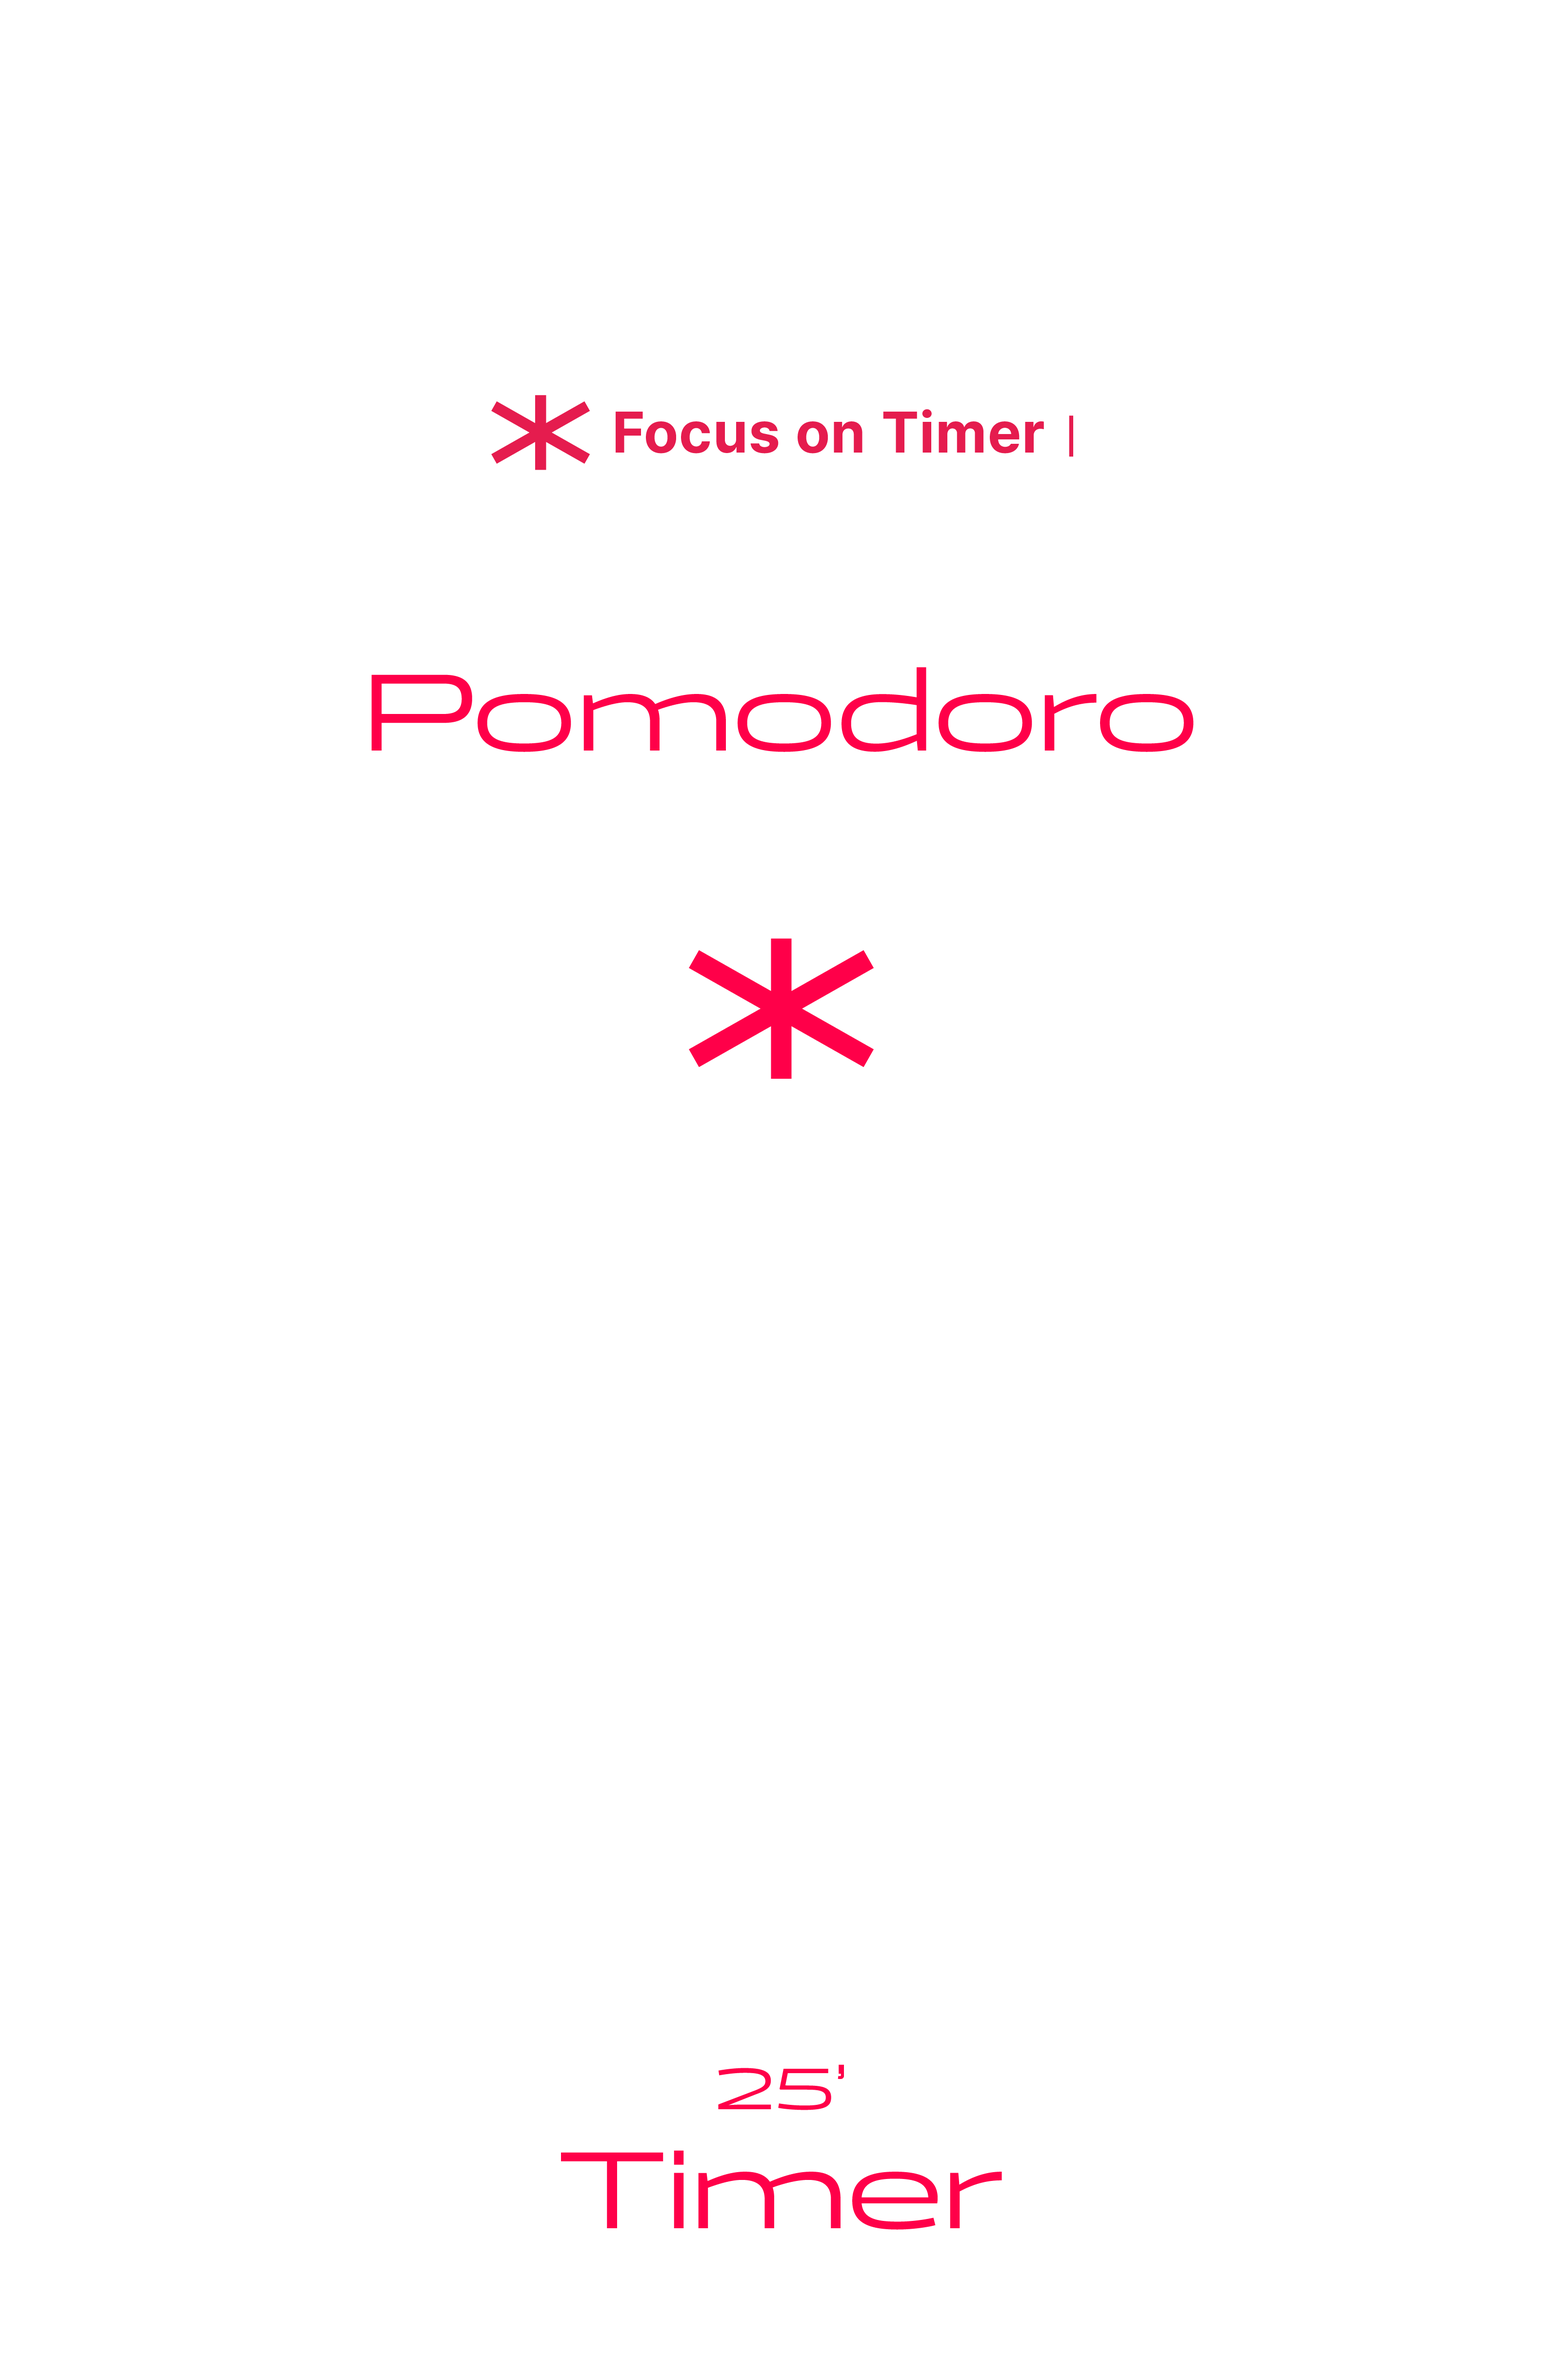
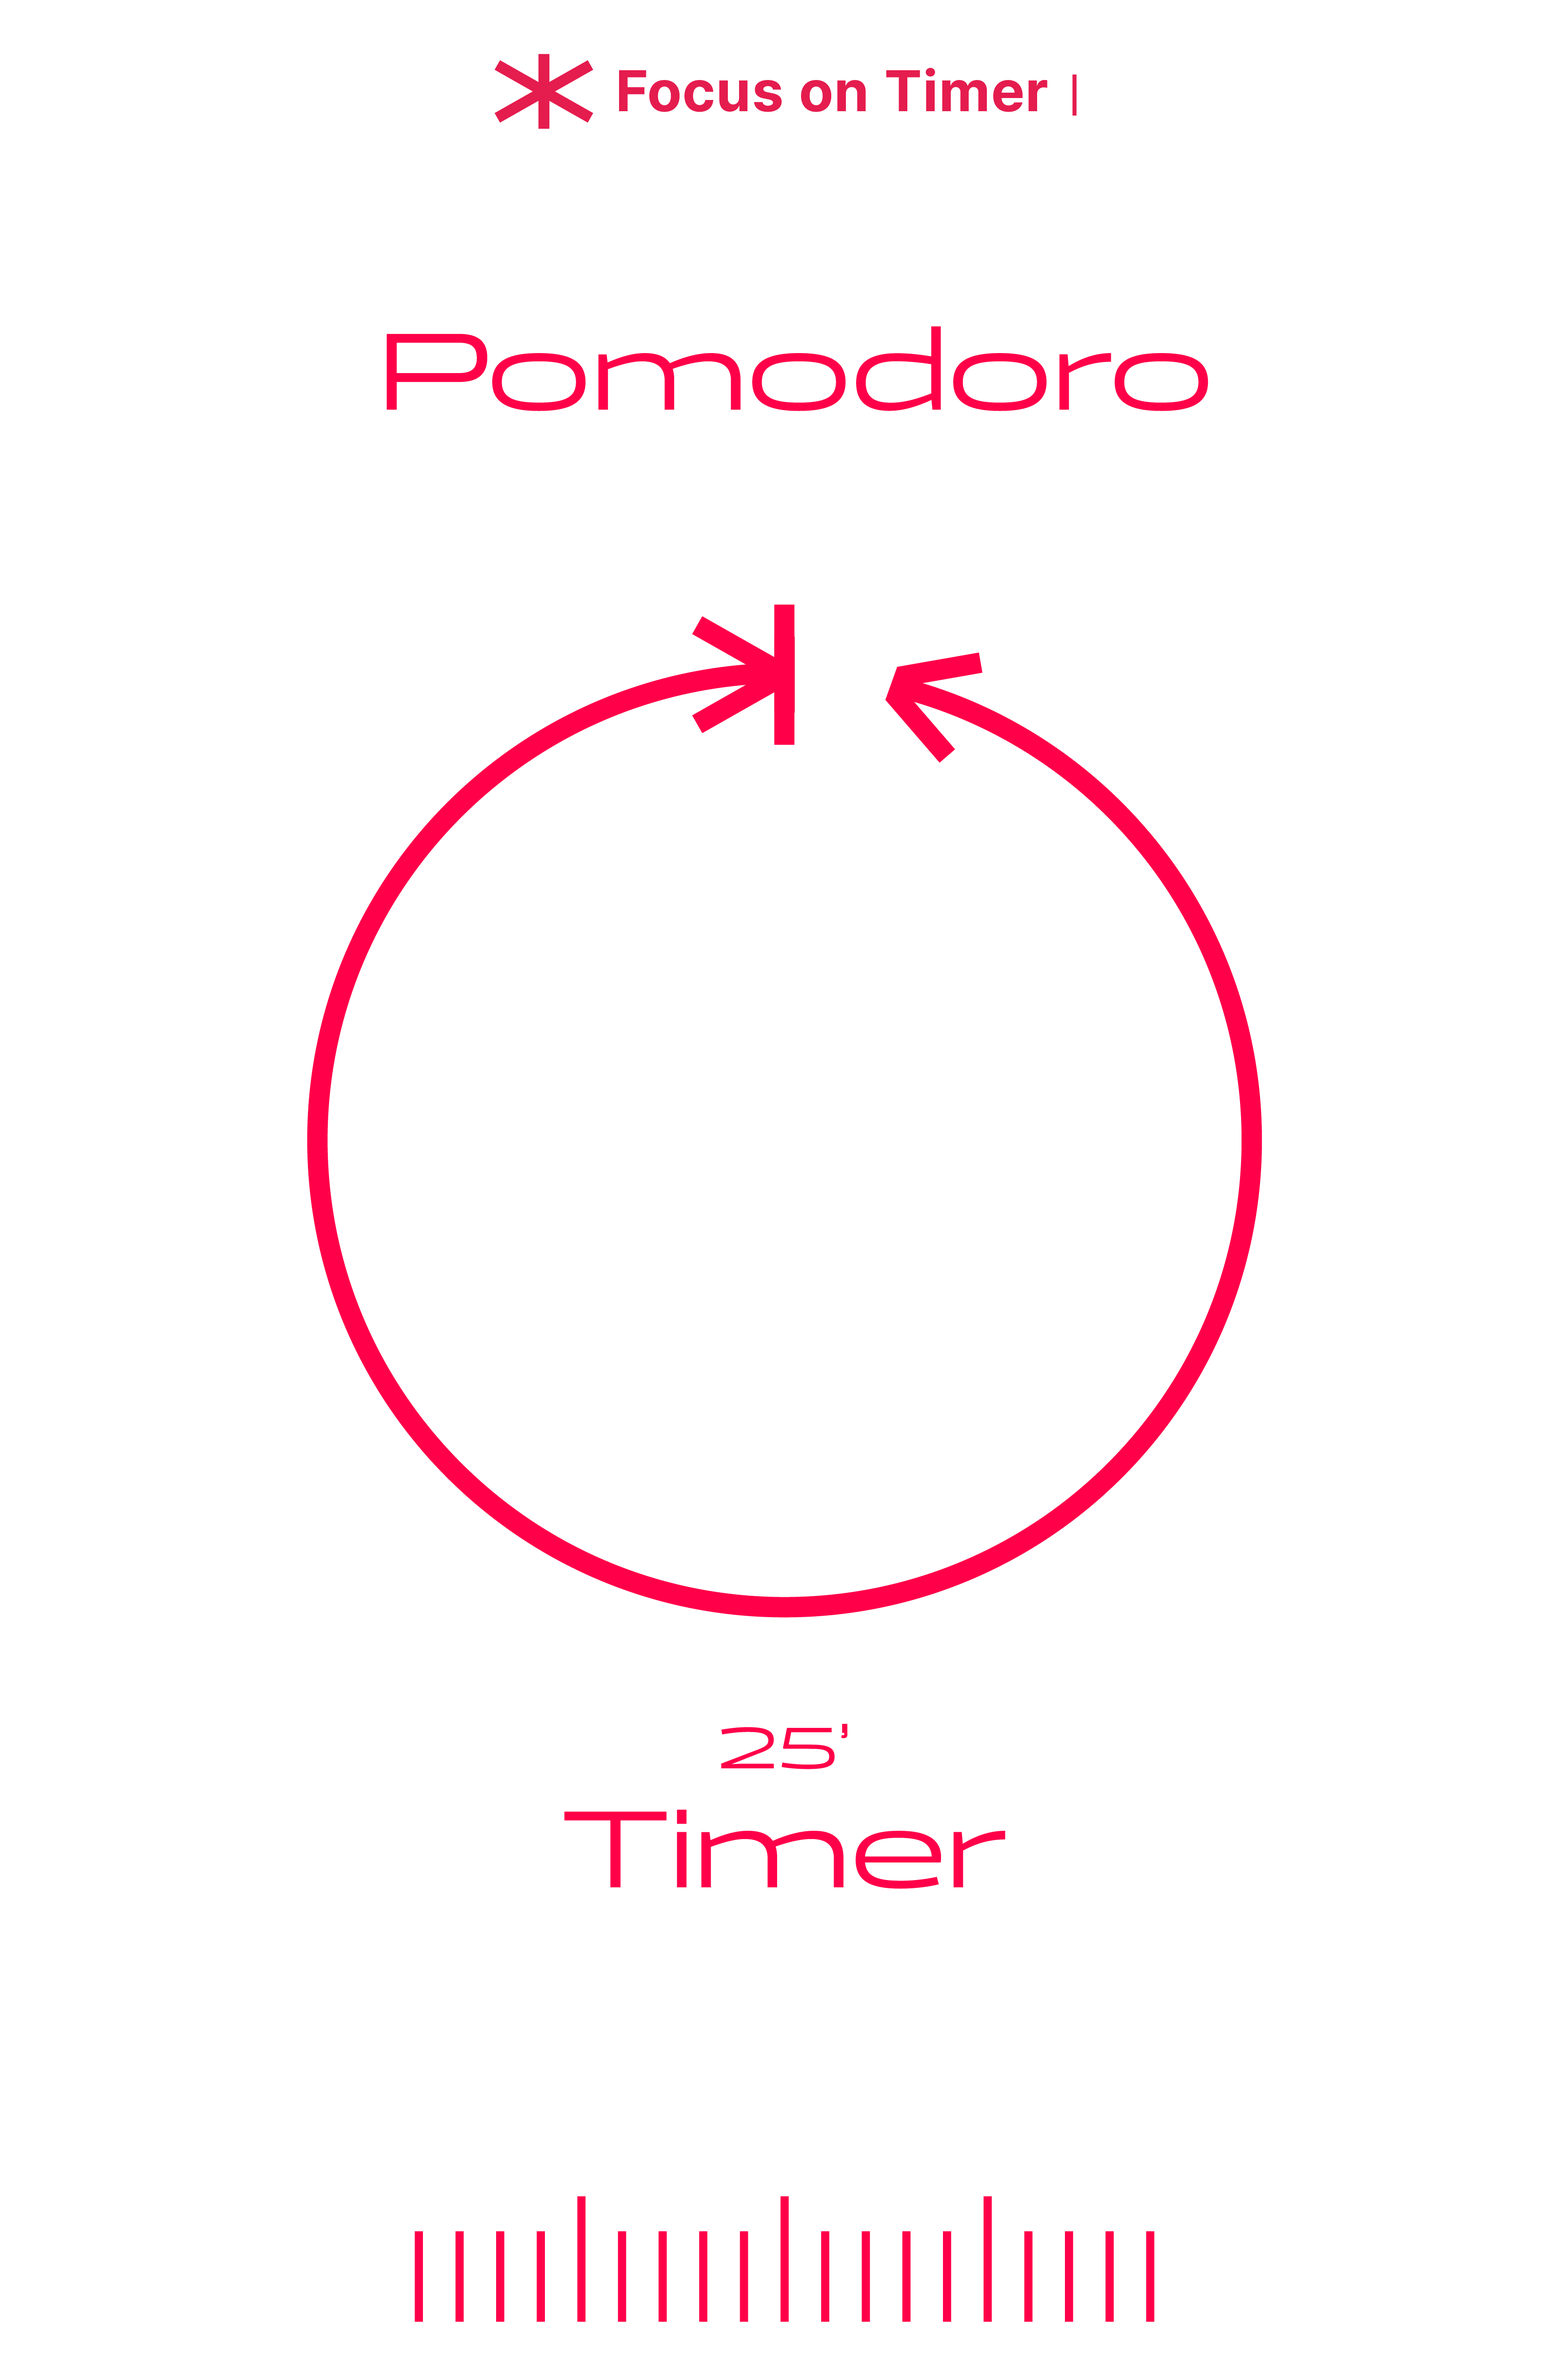
수정

diff --git a/css/main.css b/css/main.css
@@ -1,23 +1,16 @@
-@import url("https://fonts.googleapis.com/css2?family=Lexend+Deca:wght@100..900&display=swap");
 @font-face {
-  font-family: 'Panchang-Regular';
-  src: url('../fonts/Panchang-Regular.woff2') format('woff2'),
-      url('../fonts/Panchang-Regular.woff') format('woff'),
-      url('../fonts/Panchang-Regular.ttf') format('truetype').
-      font-weight : 400;
-      font-display: swap;
-      font-style: normal;
-  
+  font-family: "Panchang-Regular";
+  src: url("../fonts/Panchang-Regular.woff2") format("woff2"),
+    url("../fonts/Panchang-Regular.woff") format("woff"),
+    url("../fonts/Panchang-Regular.ttf") format("truetype");
+  font-weight: 400;
+  font-display: swap;
+  font-style: normal;
 }
-
-
 
 body {
-
   font-family: Panchang-Regular;
 }
-
-
 
 #container {
   width: 100vw;
@@ -28,26 +21,23 @@ body {
 
 #img-wrapper {
   display: flex;
-  width: 70vmin;
-  height: 110vmin;
+  width: 100vmin;
+  height: 170vmin;
   margin: auto;
-  background: url(../images/25.png) no-repeat left top;
+  background: url(../images/bg25.png) no-repeat left top;
   background-size: 100%;
   align-items: center;
   justify-content: center;
- 
 }
 
 p {
   display: inline;
   font-size: 10vmin;
   color: rgb(255, 0, 55);
-  margin-bottom: 40vmin;
+  margin-bottom: 35vmin;
   text-align: center;
   height: 0vw;
 }
-
-
 
 button {
   font-size: 18px;
@@ -58,18 +48,11 @@ button {
   border: none;
   border-radius: 4px;
   cursor: pointer;
-  text-transform: uppercase;
   transition: opacity 0.3s ease-in-out;
-  
 }
 
-#button-wrapper {
-  display: flex;
-
-  margin: 0 30 auto;  
-  background-size: 100%;
-  justify-content: center;
-
+.button-wrapper {
+  text-align: center;
 }
 
 button:hover {
@@ -86,10 +69,4 @@ button:hover {
 
 #reset {
   background-color: rgb(255, 0, 55);
-}
-
-#rest {
-  background-color: rgb(255, 255, 255);
-  color: rgb(255, 0, 55);
-  border: 1px solid rgb(255, 0, 55);
 }

diff --git a/js/main.js b/js/main.js
@@ -24,24 +24,8 @@ function startTimer() {
     if (timeLeft === 0) {
       clearInterval(interval);
 
-      // document.getElementById("img-wrapper").style.backgroundImage =
-      //   'url("images/bg5.png")';
-
-      // document.getElementById("img-wrapper").style.backgroundRepeat =
-      //   "no-repeat;";
-
-      // document.getElementById("img-wrapper").style.backgroundPosition =
-      //   "left top;";
-
       document.getElementById("img-wrapper").style.backgroundImage =
-        'url("images/5.png")';
-
-      document.getElementById("img-wrapper").style.backgroundRepeat =
-        "no-repeat;";
-
-      document.getElementById("img-wrapper").style.backgroundPosition =
-        "left top;";
-
+        'url("images/bg5.png")';
       timeLeft = 1500;
 
       updateTimer();
@@ -54,14 +38,20 @@ function stopTimer() {
 }
 function resetTimer() {
   clearInterval(interval);
-
   document.getElementById("img-wrapper").style.backgroundImage =
-    'url("../images/bg25.png")';
+    'url("images/bg25.png")';
+
   timeLeft = 1500;
+  updateTimer();
+}
+
+function restTimer() {
+  timeLeft = 300;
+
   updateTimer();
 }
 
 startEl.addEventListener("click", startTimer);
 stopEl.addEventListener("click", stopTimer);
 resetEl.addEventListener("click", resetTimer);
-s;
+restEl.addEventListener("click", restTimer);

diff --git a/index.html b/index.html
@@ -11,32 +11,8 @@
 
     <link rel="stylesheet" href="css/main.css" />
     <script src="js/main.js" defer></script>
-
-    <style>
-      img {
-        width: 5vw;
-        align-content: center;
-        justify-content: center;
-        padding-left: 185px;
-        padding-top: 30px;
-        position: absolute;
-        margin: auto;
-      }
-
-      .pomo {
-        display: flex;
-        width: 40vmin;
-        height: 50vmin;
-        margin: auto;
-        align-items: center;
-        justify-content: center;
-      }
-    </style>
   </head>
   <body>
-    <img src="images/top.png" />
-
-    <p class="pomo">Pomodoro</p>
     <div id="container">
       <div id="img-wrapper">
         <p class="timer" id="timer">25:00</p>
